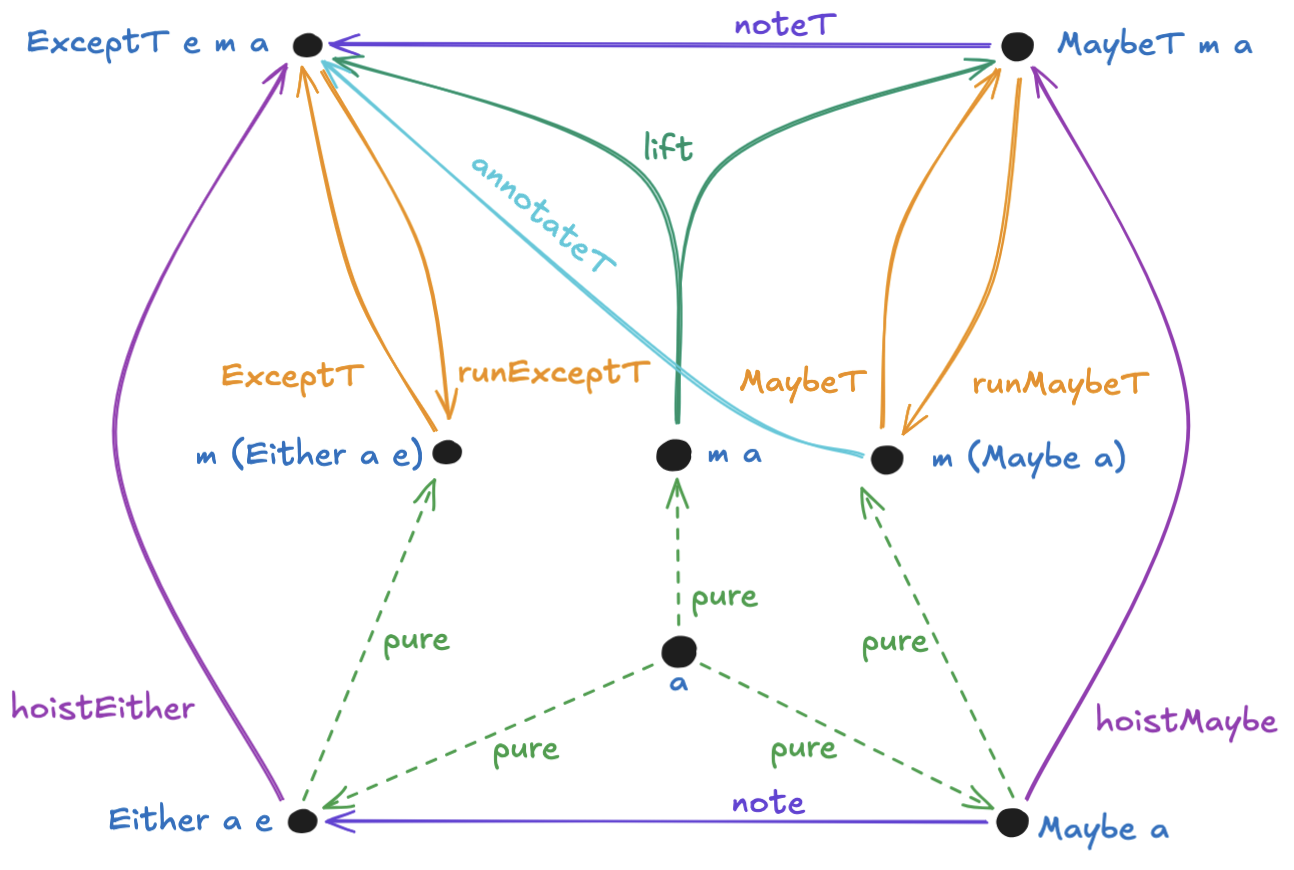
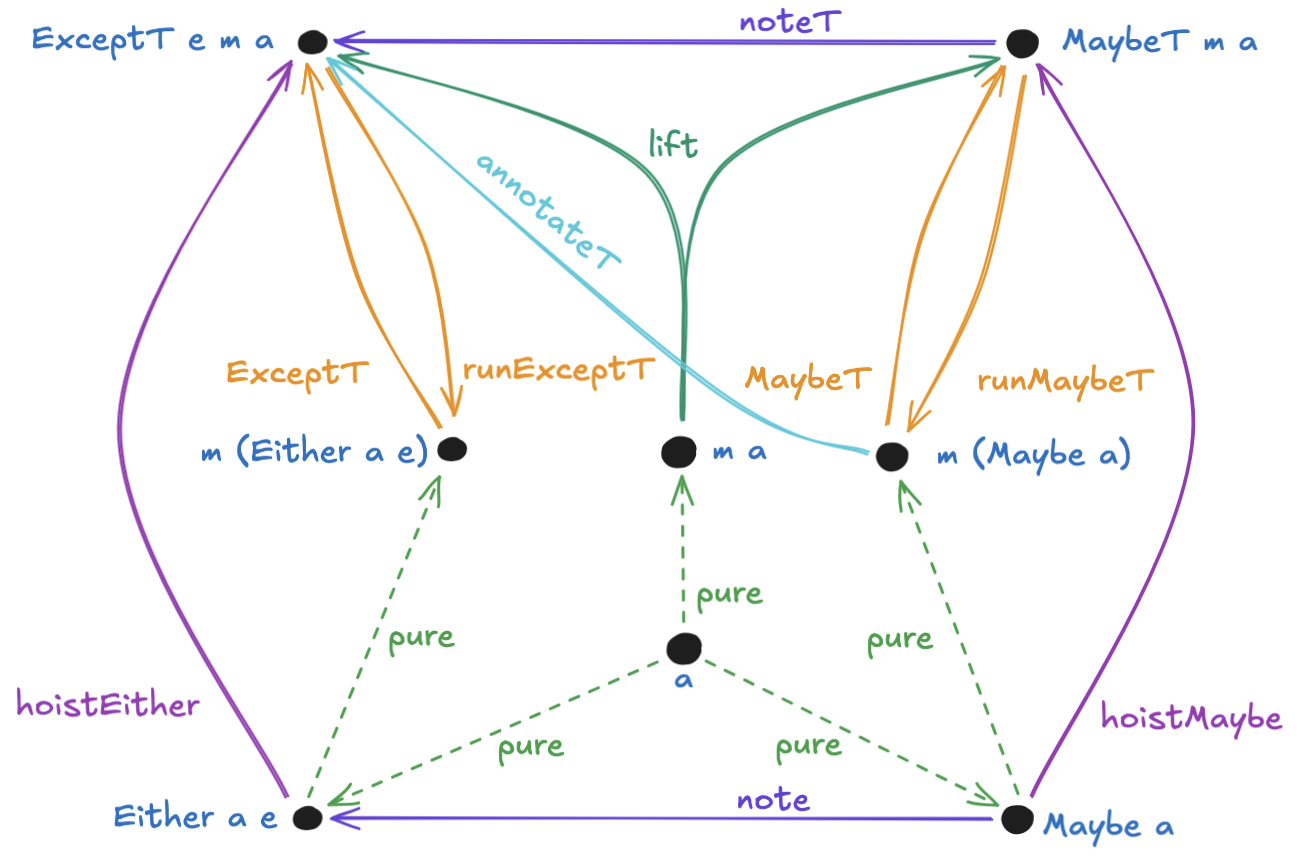
Updating diagrams to center arrow

diff --git a/the_exception_butterfly.md b/the_exception_butterfly.md
@@ -2,8 +2,8 @@
 math: true
 permalink: the-exception-butterfly
 title: The Exception Butterfly
-description: An overview of gracefully handling Maybe/Either within Haskell.
-featured_image: /blog/images/the_exception_butterfly/featured.png
+description: An overview of gracefully composing Maybe/Either/Transformers within Haskell.
+featured_image: /blog/images/the_exception_butterfly/cover.png
 layout: page
 date: 2026-04-11
 ---
